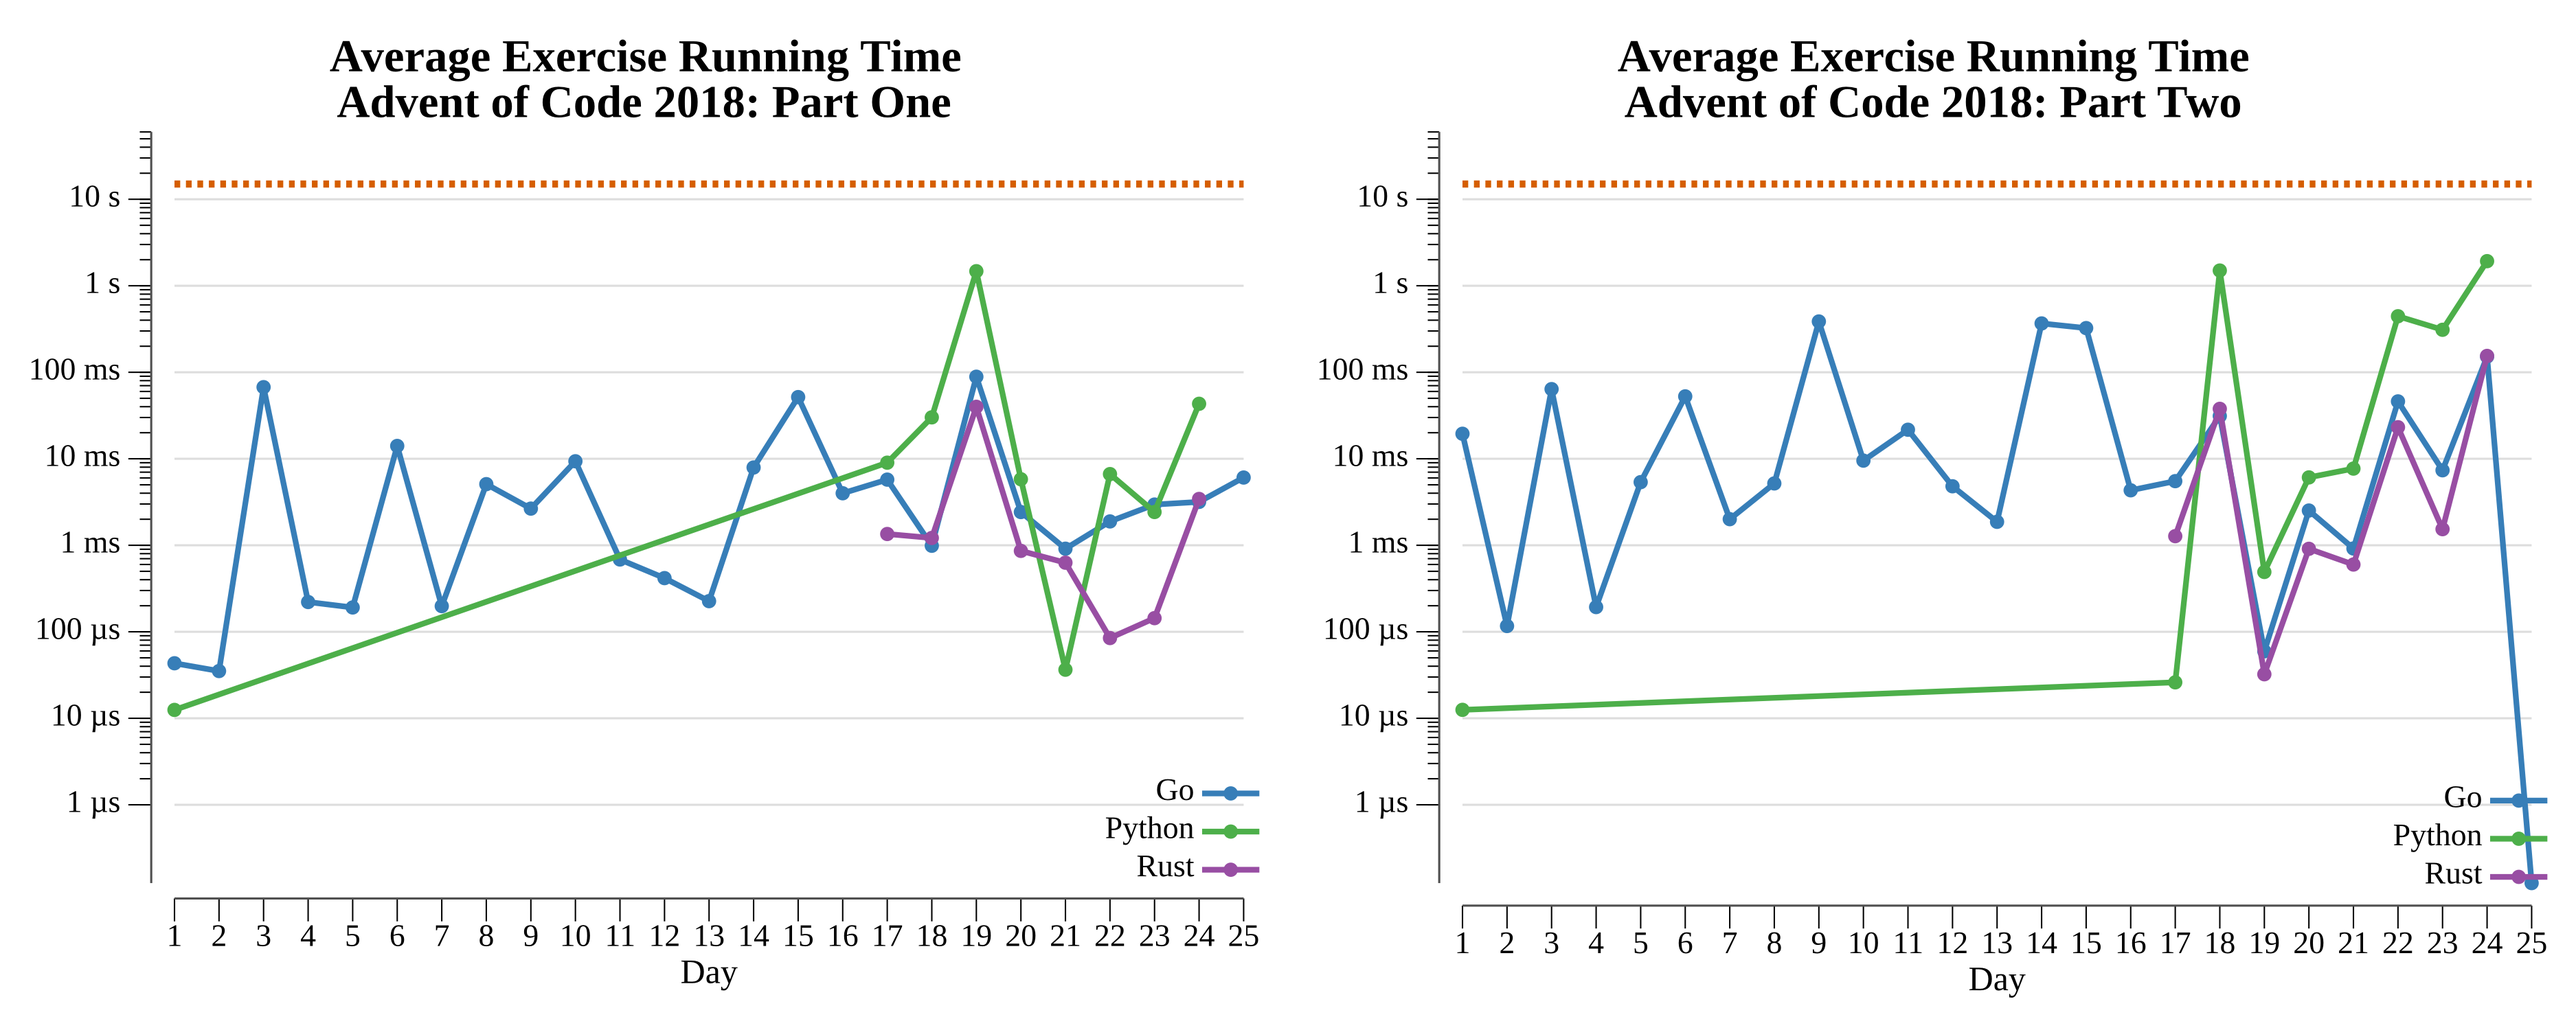
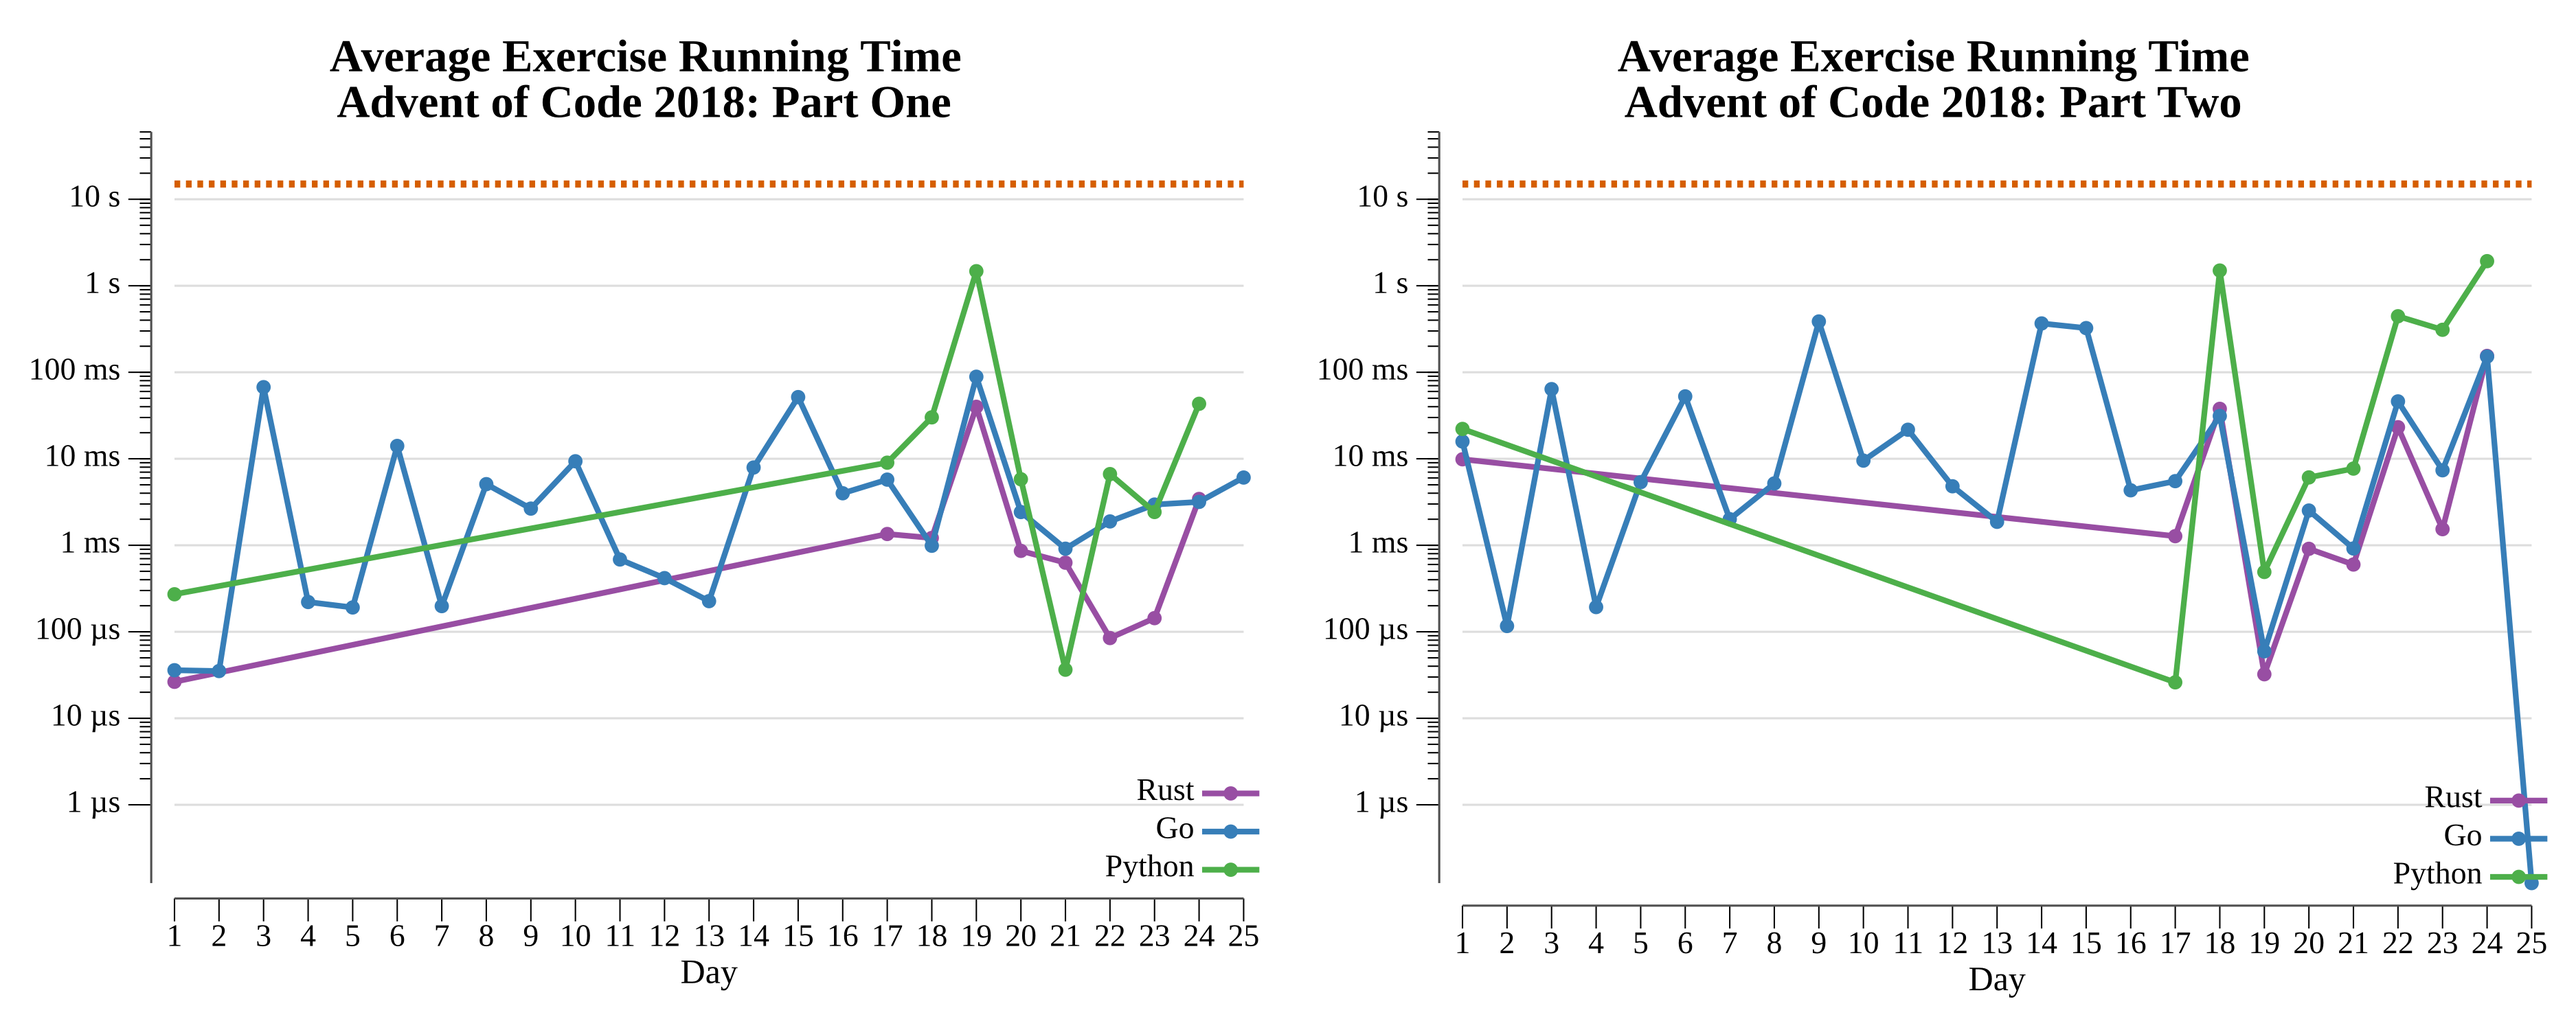
add rust and python to 2018 day 1

diff --git a/exercises/2018/01-chronalCalibration/rs/src/solution.rs b/exercises/2018/01-chronalCalibration/rs/src/solution.rs
@@ -1,0 +1,28 @@
+use std::collections::HashSet;
+
+/// Parse the input into signed frequency changes, tolerating blank lines and
+/// surrounding whitespace (the runner may deliver input with or without a
+/// trailing newline).
+fn changes(input: &str) -> impl Iterator<Item = i64> + '_ {
+    input.split_whitespace().map(|f| f.parse().unwrap())
+}
+
+pub fn part_one(input: &str) -> String {
+    changes(input).sum::<i64>().to_string()
+}
+
+pub fn part_two(input: &str) -> String {
+    let mut seen = HashSet::from([0]);
+    let mut freq = 0;
+
+    changes(input)
+        .collect::<Vec<_>>()
+        .into_iter()
+        .cycle()
+        .find_map(|c| {
+            freq += c;
+            (!seen.insert(freq)).then_some(freq)
+        })
+        .unwrap()
+        .to_string()
+}

diff --git a/exercises/2018/01-chronalCalibration/py/__init__.py b/exercises/2018/01-chronalCalibration/py/__init__.py
@@ -1,4 +1,6 @@
+from itertools import accumulate, cycle
 from typing import *
+
 from aocpy import BaseExercise
 
 
@@ -6,8 +8,13 @@ from aocpy import BaseExercise
 class Exercise(BaseExercise):
     @staticmethod
     def one(instr: str) -> int:
-        raise NotImplementedError
+        return sum(int(n) for n in instr.split())
 
     @staticmethod
     def two(instr: str) -> int:
-        raise NotImplementedError
+        changes = [int(n) for n in instr.split()]
+        seen = {0}
+        for freq in accumulate(cycle(changes)):
+            if freq in seen:
+                return freq
+            seen.add(freq)

diff --git a/exercises/2018/01-chronalCalibration/README.md b/exercises/2018/01-chronalCalibration/README.md
@@ -1,6 +1,18 @@
 # [Day 1: Chronal Calibration](https://adventofcode.com/2018/day/1)
 
-<!-- [Day 1: Chronal Calibration](01-chronalCalibration) -->
+<!-- These are helper text to make formatting the yearly readme consistent and easier...
+
+[Day 1: Chronal Calibration][rm1]
+[Go][go1]
+[Rust][rs1]
+[Python][py1]
+
+[rm1]: 01-chronalCalibration/README.md
+[go1]: 01-chronalCalibration/go
+[rs1]: 01-chronalCalibration/rs
+[py1]: 01-chronalCalibration/py
+
+-->
 
 ## Notes
 
@@ -24,10 +36,37 @@ Solving (Go)…
 2.0:  PASS            22.611ms
 ```
 
-## Python
+## Rust
+
+Both parts are iterator pipelines: Part One is `split_whitespace().map(parse).sum()`.
+Part Two collects the changes once, then `.cycle()`s them and uses `find_map` with a
+`HashSet`, where `!seen.insert(freq)` both records the frequency and detects the
+first repeat in a single call.
 
 ```text
-    < section intentionally left blank >
+────────────────────────────────────────
+─   2018 Day 1: Chronal Calibration    ─
+────────────────────────────────────────
+
+Solving (Rust)…
+1.0:  PASS             0.021ms
+2.0:  PASS             9.987ms
+```
+
+## Python
+
+Part One is a one-line `sum()` over parsed ints. Part Two leans on `itertools`:
+`accumulate(cycle(changes))` lazily streams the running frequency across repeated
+passes, and a `set` (seeded with `0`) returns the first value seen twice.
+
+```text
+────────────────────────────────────────
+─   2018 Day 1: Chronal Calibration    ─
+────────────────────────────────────────
+
+Solving (Python)…
+1.0:  PASS             0.264ms
+2.0:  PASS            25.170ms
 ```
 
 ## Visualization

diff --git a/exercises/2018/README.md b/exercises/2018/README.md
@@ -6,7 +6,7 @@
 
 | Exercise                                                      | Stars | Solutions                      |
 |---------------------------------------------------------------|:-----:|--------------------------------|
-| [Day 1: Chronal Calibration](01-chronalCalibration/README.md) |  ★ ★  | [Go](01-chronalCalibration/go) |
+| [Day 1: Chronal Calibration](01-chronalCalibration/README.md) |  ★ ★  | [Go](01-chronalCalibration/go) · [Rust](01-chronalCalibration/rs) · [Python](01-chronalCalibration/py) |
 | [Day 2: Inventory Management System](02-inventoryManagementSystem/README.md) |  ★ ★  | [Go](02-inventoryManagementSystem/go) |
 | [Day 3: No Matter How You Slice It](03-noMatterHowYouSliceIt/README.md) |  ★ ★  | [Go](03-noMatterHowYouSliceIt/go) |
 | [Day 4: Repose Record](04-reposeRecord/README.md) |  ★ ★  | [Go](04-reposeRecord/go) |
